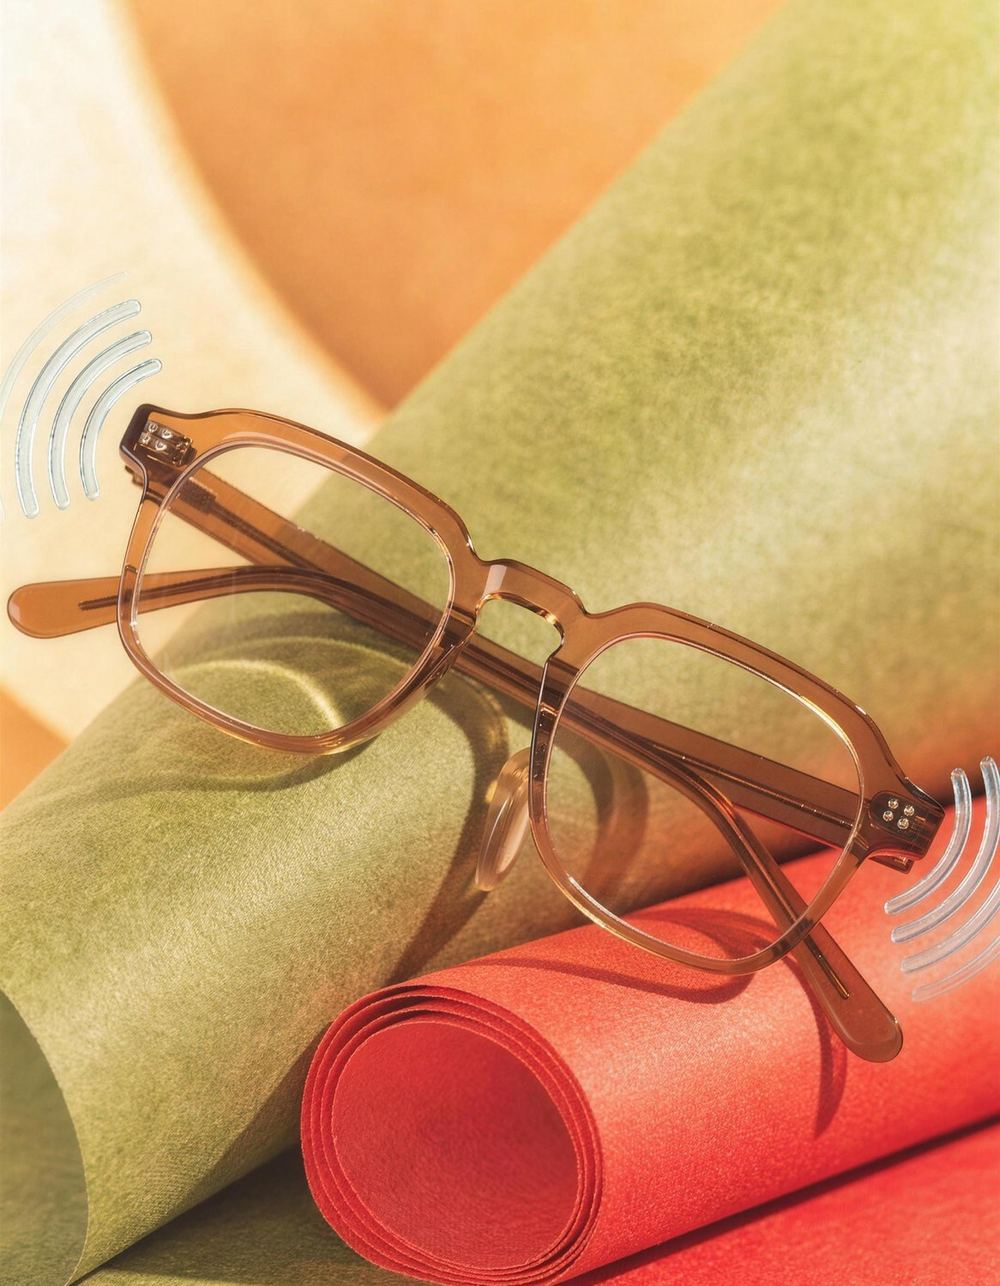
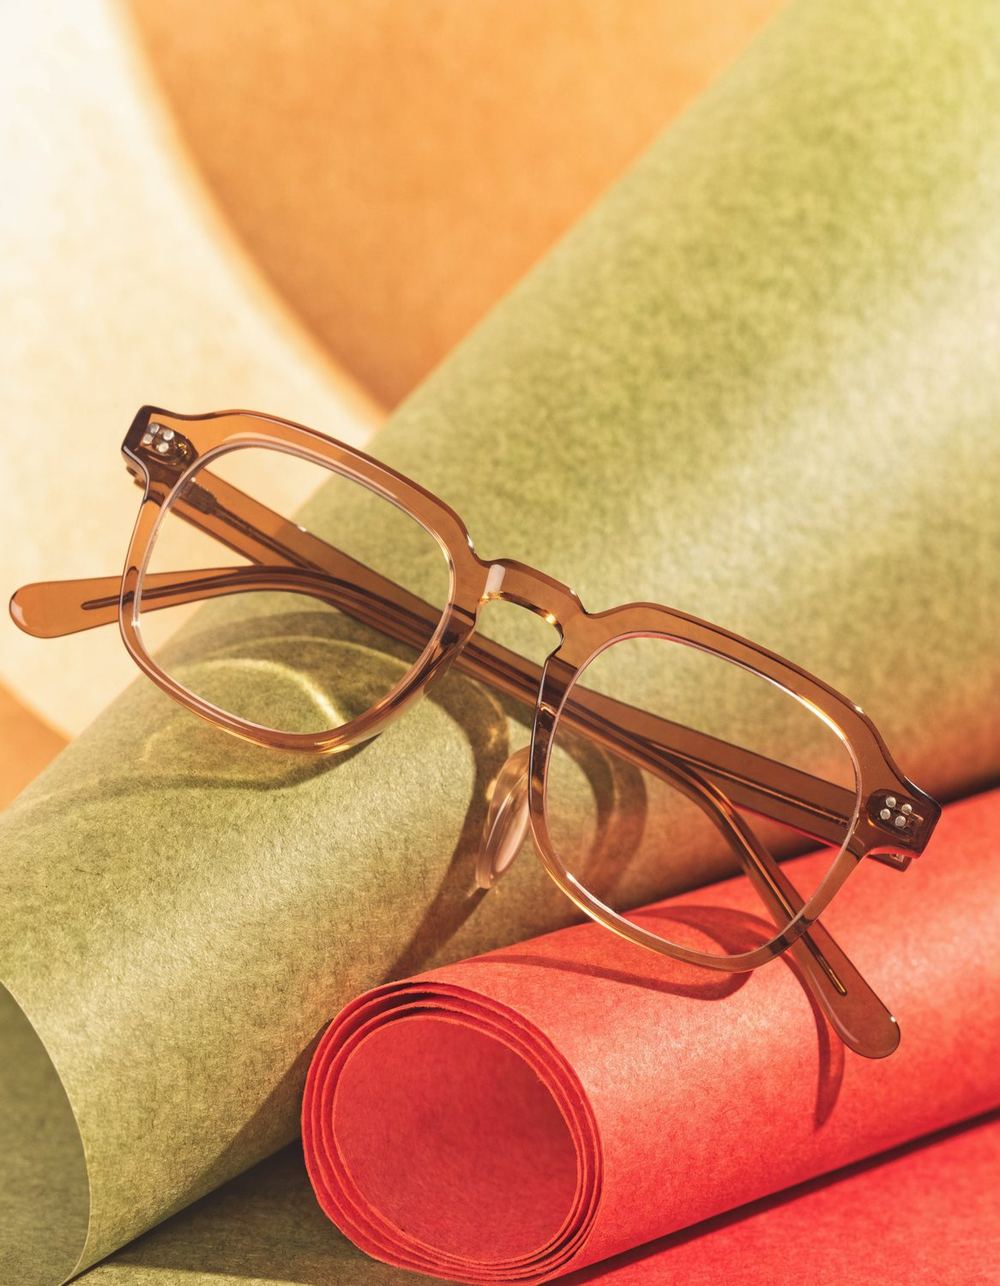
Images séparées : la photo à ondes sonores devient nuance-audio.* (page services uniquement), restauration de la photo d'origine pour « Plus de 60 maisons & créateurs »

diff --git a/services.html b/services.html
@@ -364,7 +364,7 @@
       <div class="expert-media reveal">
         <div class="frame">
           <span class="tape" style="top:-16px;left:24px;transform:rotate(-3deg)"></span>
-          <picture><source srcset="assets/photos/gen-eyewear-paper.webp" type="image/webp"><img src="assets/photos/gen-eyewear-paper.jpg" alt="Lunettes Nuance Audio — assistance auditive invisible" width="1000" height="1286" loading="lazy" decoding="async"></picture>
+          <picture><source srcset="assets/photos/nuance-audio.webp" type="image/webp"><img src="assets/photos/nuance-audio.jpg" alt="Lunettes Nuance Audio — assistance auditive invisible" width="1000" height="1286" loading="lazy" decoding="async"></picture>
         </div>
         <span class="hand" style="position:absolute;bottom:-28px;left:6%;font-size:1.7rem;transform:rotate(-2deg);color:var(--bois)">on n'y voit que du feu</span>
       </div>